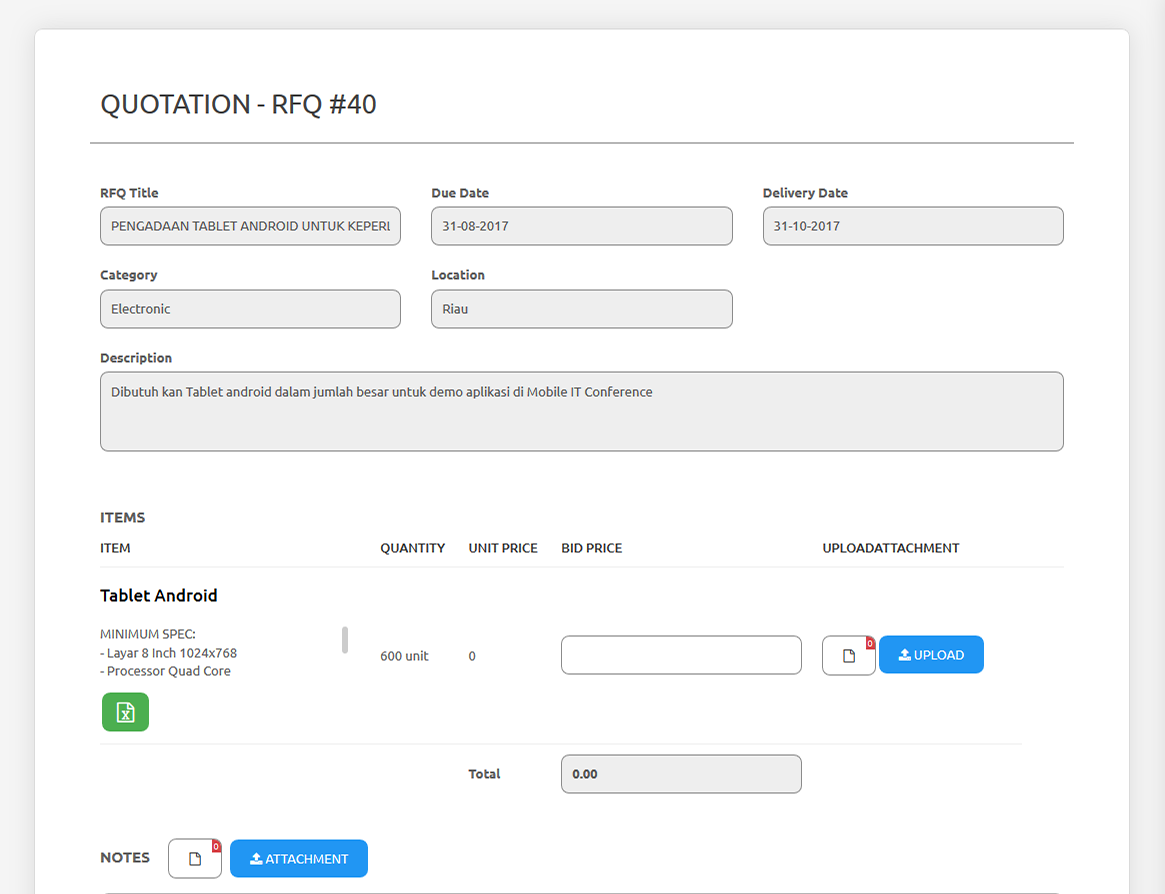
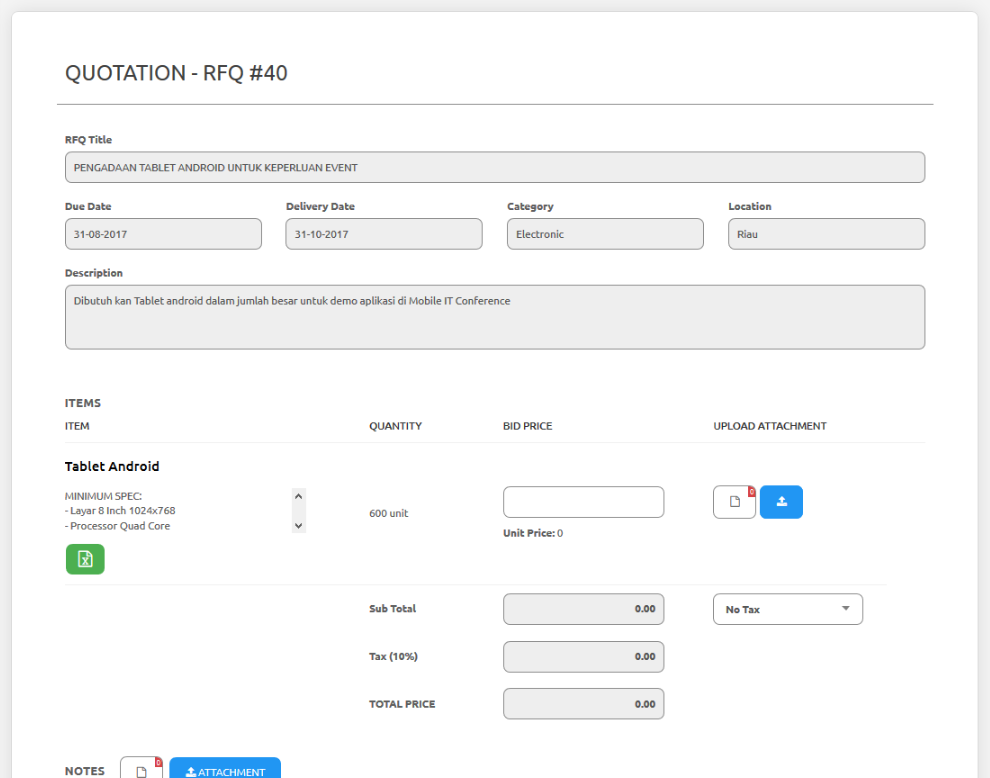
quot tax

diff --git a/source/Supplier/public_rfq_join.rst b/source/Supplier/public_rfq_join.rst
@@ -8,7 +8,7 @@ We are assuming that you're already at(open) the Public RFQ Detail page.
 Before Login
 ------------
 
-*If you're already logged in and already in the Public RFQ detail page, you can skip this section.
+If you're already logged in and already in the Public RFQ detail page, you can skip this section.
 
 You can view the public RFQ before you login but for join the public RFQ, login is a must.
 
@@ -44,6 +44,8 @@ Create Quotation
     :alt: role select
  
  - you just need to input your bid price (the unit price will be automatically calculated)
+ 
+ - don't forget to choose the tax menu to define that your inputted price is already included tax, excluded or no tax.
  
  - you can upload your support files/attachment for each item(format file supported: \*.png, \*.gif, \*.jpg, \*.jpeg, \*.doc, \*.docx, \*.xls, \*.xlsx, \*.pdf)
  

diff --git a/source/Supplier/private_rfq_join.rst b/source/Supplier/private_rfq_join.rst
@@ -43,6 +43,8 @@ We are assuming that you're already at(open) the Private RFQ Detail page.
  
  - you just need to input your bid price (the unit price will be automatically calculated)
  
+ - don't forget to choose the tax menu to define that your inputted price is already included tax, excluded or no tax.
+ 
  - you can upload your support files/attachment for each item(format file supported: \*.png, \*.gif, \*.jpg, \*.jpeg, \*.doc, \*.docx, \*.xls, \*.xlsx, \*.pdf)
  
  - you can add notes to the quotation plus, you can add your support files/attachment for your quotation
